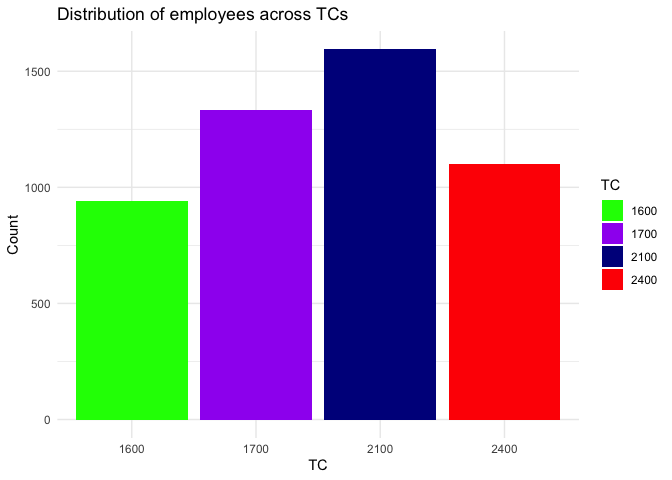
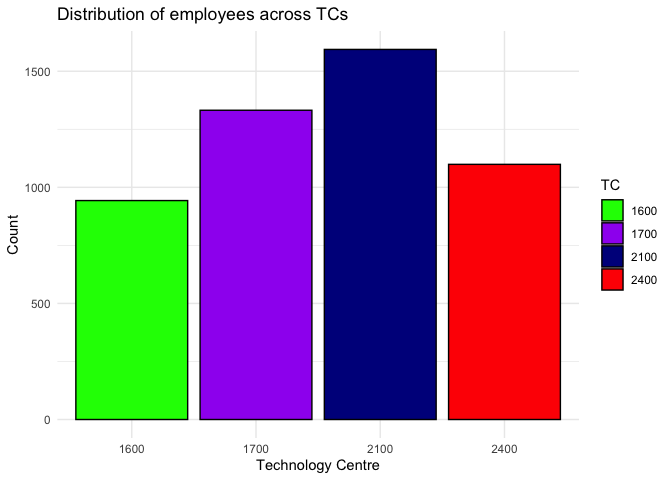
finalproj

diff --git a/Final-Project.md b/Final-Project.md
@@ -57,7 +57,7 @@ length_df %>%
   group_by(gender) %>%
   summarize(y = mean(app_length)) %>%
   ggplot(aes(x = gender, y = y, fill=gender)) +
-  geom_col(position = "dodge")+
+  geom_col(position = "dodge", color="black")+
   labs(x = "Gender", y = "Average days for application completion", fill = "Gender") +
   ggtitle("Average application length by gender") +
   theme_minimal()+
@@ -72,7 +72,7 @@ length_df %>%
   group_by(race) %>%
   summarize(y = mean(app_length)) %>%
   ggplot(aes(x = as.factor(race), y = y,fill=race)) +
-  geom_col(position = "dodge")+
+  geom_col(position = "dodge", color="black")+
   labs(x = "Technology Centre", y = "Average days for application completion", fill = "Race") +
   ggtitle("Average processing times by race") +
   theme_minimal()
@@ -86,7 +86,7 @@ length_df %>%
   group_by(tc) %>%
   summarize(y = mean(app_length)) %>%
   ggplot(aes(x = as.factor(tc), y = y, fill=as.factor(tc))) +
-  geom_col()+
+  geom_col(color="black")+
   labs(x = "Technology Centre", y = "Average days for application completion", fill = "TC") +
   ggtitle("Average processing times by TC") +
   scale_fill_manual(values = c("1600" = "green", "1700" = "purple", "2100"="darkblue", "2400"="red"))+
@@ -96,6 +96,19 @@ length_df %>%
 ![](Final-Project_files/figure-gfm/visualizing-3.png)<!-- -->
 
 ``` r
+gender_avg <- length_df %>%
+  group_by(gender) %>%
+  summarize(y = mean(app_length))
+
+race_avg <- length_df %>%
+  group_by(race) %>%
+  summarize(y = mean(app_length))
+
+tc_avg <- length_df %>%
+  group_by(tc) %>%
+  summarize(y = mean(app_length))
+
+  
 #distribution of app length based on final decision (issued or abandoned)  
 length_df %>%
   ggplot(aes(y = app_length, fill = disposal_type)) +
@@ -117,7 +130,7 @@ length_df %>%
   group_by(gender, tc) %>%
   summarize(n = n_distinct(examiner_id)) %>%
   ggplot(aes(x = as.factor(tc), y = n, fill=gender)) +
-  geom_col(position = "dodge")+
+  geom_col(position = "dodge", color="black")+
   labs(x = "TC", y = "Count", fill = "Gender") +
   ggtitle("Gender Distribution across TC") +
   theme_minimal()+
@@ -135,8 +148,8 @@ length_df %>%
   group_by(race, tc) %>%
   summarize(n = n_distinct(examiner_id)) %>%
   ggplot(aes(x = as.factor(tc), y = n, fill=race)) +
-  geom_col(position = "dodge")+
-  labs(x = "TC", y = "Count", fill = "Race") +
+  geom_col(position = "dodge", color="black")+
+  labs(x = "Technology Centre", y = "Count", fill = "Race") +
   ggtitle("Racial distributions across TCs") +
   theme_minimal()
 ```
@@ -152,8 +165,8 @@ length_df %>%
   group_by(tc) %>%
   summarize(n = n_distinct(examiner_id)) %>%
   ggplot(aes(x = as.factor(tc), y = n, fill=as.factor(tc))) +
-  geom_col(position = "dodge")+
-  labs(x = "TC", y = "Count", fill = "TC") +
+  geom_col(position = "dodge", color="black")+
+  labs(x = "Technology Centre", y = "Count", fill = "TC") +
   ggtitle("Distribution of employees across TCs") +
   theme_minimal()+
   scale_fill_manual(values = c("1600" = "green", "1700" = "purple", "2100"="darkblue", "2400"="red"))
@@ -204,7 +217,7 @@ length_df %>%
   summarize(count = n()) %>%
   ggplot(aes(x = as.factor(tc), y = count, fill=disposal_type)) +
   geom_col(position = "fill")+
-  labs(x = "TC", y = "Decision proportion", fill = "Disposal Type") +
+  labs(x = "Technology Centre", y = "Decision proportion", fill = "Disposal Type") +
   ggtitle("Distribution of decision type by TC") +
   theme_minimal()+
   scale_fill_manual(values = c("ISS" = "darkgreen", "ABN" = "darkred"))
@@ -221,7 +234,7 @@ length_df %>%
   group_by(gender, disposal_type) %>%
   summarize(y = mean(app_length)) %>%
   ggplot(aes(x = gender, y = y, fill=disposal_type)) +
-  geom_col(position = "dodge")+
+  geom_col(position = "dodge", color="black")+
   labs(x = "Gender", y = "Decision time", fill = "Disposal Type") +
   ggtitle("Average processing time for each decision type by gender ") +
   theme_minimal()+
@@ -239,7 +252,7 @@ length_df %>%
   group_by(race, disposal_type) %>%
   summarize(y = mean(app_length)) %>%
   ggplot(aes(x = race, y = y, fill=disposal_type)) +
-  geom_col(position = "dodge")+
+  geom_col(position = "dodge", color="black")+
   labs(x = "Race", y = "Decision time", fill = "Disposal Type") +
   ggtitle("Average processing time for each decision type by race") +
   theme_minimal()+
@@ -257,8 +270,8 @@ length_df %>%
   group_by(tc, disposal_type) %>%
   summarize(y = mean(app_length)) %>%
   ggplot(aes(x = as.factor(tc), y = y, fill=disposal_type)) +
-  geom_col(position = "dodge")+
-  labs(x = "TC", y = "Decision time", fill = "Disposal Type") +
+  geom_col(position = "dodge", color="black")+
+  labs(x = "Technology Centre", y = "Decision time", fill = "Disposal Type") +
   ggtitle("Average processing time for each decision type by TC") +
   theme_minimal()+
   scale_fill_manual(values = c("ISS" = "darkgreen", "ABN" = "darkred"))
@@ -281,13 +294,10 @@ average_length <- length_df %>%
     tenure = first(tenure_days)
   )
 
-
 #regression with preprocessed set
 model_avg <- lm(data = average_length, avg_length ~ as.factor(tc) + as.factor(gender) + as.factor(race) + as.factor(disposal_type))
 
 model_avg_wt <- lm(data = average_length, avg_length ~ as.factor(tc) + as.factor(gender) + as.factor(race) + as.factor(disposal_type) + tenure)
-
-library(stargazer)
 
 summary(model_avg)
 ```
@@ -355,139 +365,139 @@ summary(model_avg_wt)
     ## F-statistic: 292.7 on 10 and 8920 DF,  p-value: < 2.2e-16
 
 ``` r
-tidy(model_avg)
+yoe_df <- length_df %>%
+  drop_na(earliest_date) %>%
+  mutate(yoe = year(filing_date)-year(earliest_date))
+
+yoe_df %>%
+  group_by(yoe) %>%
+  summarize(y = mean(app_length)) %>%
+  ggplot(aes(x = as.factor(yoe), y = y)) +
+  geom_col(fill = "lightgreen", color="black") +
+  labs(x = "Years of Experience", y = "Average decision time") +
+  ggtitle("Average processing time by years of experience") +
+  theme_minimal()
 ```
 
-    ## # A tibble: 10 × 5
-    ##    term                        estimate std.error statistic   p.value
-    ##    <chr>                          <dbl>     <dbl>     <dbl>     <dbl>
-    ##  1 (Intercept)                    980.      10.5      93.3  0        
-    ##  2 as.factor(tc)1700               26.2      9.20      2.85 4.37e-  3
-    ##  3 as.factor(tc)2100              199.       9.33     21.4  7.10e- 99
-    ##  4 as.factor(tc)2400              198.      10.3      19.2  7.37e- 81
-    ##  5 as.factor(gender)male          -20.6      7.05     -2.92 3.49e-  3
-    ##  6 as.factor(race)black           -28.6     18.2      -1.57 1.16e-  1
-    ##  7 as.factor(race)Hispanic        -27.3     16.7      -1.64 1.02e-  1
-    ##  8 as.factor(race)other           297.     149.        1.99 4.68e-  2
-    ##  9 as.factor(race)white           -11.1      7.59     -1.46 1.44e-  1
-    ## 10 as.factor(disposal_type)ISS    187.       6.29     29.8  1.37e-185
+![](Final-Project_files/figure-gfm/years-of-experience-1.png)<!-- -->
 
 ``` r
-tidy(model_avg_wt)
+yoe_reg <- yoe_df %>%
+  group_by(examiner_id, disposal_type,yoe) %>%
+  summarize(
+    gender= first(gender),
+    race = first(race),
+    tc = first(tc),
+    avg_length = mean(app_length),
+    tenure = first(tenure_days)
+  )
 ```
 
-    ## # A tibble: 11 × 5
-    ##    term                        estimate std.error statistic   p.value
-    ##    <chr>                          <dbl>     <dbl>     <dbl>     <dbl>
-    ##  1 (Intercept)                 658.      14.2        46.2   0        
-    ##  2 as.factor(tc)1700            58.9      8.82        6.68  2.56e- 11
-    ##  3 as.factor(tc)2100           243.       8.98       27.0   1.63e-154
-    ##  4 as.factor(tc)2400           284.      10.1        28.0   9.72e-166
-    ##  5 as.factor(gender)male       -18.2      6.70       -2.71  6.68e-  3
-    ##  6 as.factor(race)black        -32.7     17.3        -1.89  5.93e-  2
-    ##  7 as.factor(race)Hispanic      -1.93    15.8        -0.122 9.03e-  1
-    ##  8 as.factor(race)other        245.     142.          1.73  8.39e-  2
-    ##  9 as.factor(race)white         -9.30     7.22       -1.29  1.98e-  1
-    ## 10 as.factor(disposal_type)ISS 184.       5.99       30.8   3.29e-198
-    ## 11 tenure                        0.0603   0.00190    31.7   5.53e-209
+    ## `summarise()` has grouped output by 'examiner_id', 'disposal_type'. You can
+    ## override using the `.groups` argument.
 
 ``` r
-stargazer(model_avg, type="text")
+model_yoe_af <- lm(data = yoe_reg, avg_length ~ as.factor(tc) + as.factor(gender) + as.factor(race) + as.factor(disposal_type) + as.factor(yoe))
+
+model_yoe <- lm(data = yoe_reg, avg_length ~ as.factor(tc) + as.factor(gender) + as.factor(race) + as.factor(disposal_type) + yoe)
+
+summary(model_yoe_af)
 ```
 
     ## 
-    ## =======================================================
-    ##                                 Dependent variable:    
-    ##                             ---------------------------
-    ##                                     avg_length         
-    ## -------------------------------------------------------
-    ## as.factor(tc)1700                    26.227***         
-    ##                                       (9.199)          
-    ##                                                        
-    ## as.factor(tc)2100                   199.471***         
-    ##                                       (9.334)          
-    ##                                                        
-    ## as.factor(tc)2400                   197.734***         
-    ##                                      (10.278)          
-    ##                                                        
-    ## as.factor(gender)male               -20.584***         
-    ##                                       (7.045)          
-    ##                                                        
-    ## as.factor(race)black                  -28.593          
-    ##                                      (18.191)          
-    ##                                                        
-    ## as.factor(race)Hispanic               -27.258          
-    ##                                      (16.661)          
-    ##                                                        
-    ## as.factor(race)other                 296.641**         
-    ##                                      (149.171)         
-    ##                                                        
-    ## as.factor(race)white                  -11.095          
-    ##                                       (7.590)          
-    ##                                                        
-    ## as.factor(disposal_type)ISS         187.205***         
-    ##                                       (6.292)          
-    ##                                                        
-    ## Constant                            980.221***         
-    ##                                      (10.510)          
-    ##                                                        
-    ## -------------------------------------------------------
-    ## Observations                           8,973           
-    ## R2                                     0.162           
-    ## Adjusted R2                            0.161           
-    ## Residual Std. Error             297.980 (df = 8963)    
-    ## F Statistic                  192.597*** (df = 9; 8963) 
-    ## =======================================================
-    ## Note:                       *p<0.1; **p<0.05; ***p<0.01
+    ## Call:
+    ## lm(formula = avg_length ~ as.factor(tc) + as.factor(gender) + 
+    ##     as.factor(race) + as.factor(disposal_type) + as.factor(yoe), 
+    ##     data = yoe_reg)
+    ## 
+    ## Residuals:
+    ##     Min      1Q  Median      3Q     Max 
+    ## -1584.4  -307.3   -21.0   247.7  4380.0 
+    ## 
+    ## Coefficients:
+    ##                              Estimate Std. Error t value Pr(>|t|)    
+    ## (Intercept)                  1658.344      8.444 196.385  < 2e-16 ***
+    ## as.factor(tc)1700            -135.796      5.129 -26.477  < 2e-16 ***
+    ## as.factor(tc)2100              19.007      5.513   3.448 0.000566 ***
+    ## as.factor(tc)2400             127.806      5.747  22.239  < 2e-16 ***
+    ## as.factor(gender)male         -26.522      4.062  -6.530 6.63e-11 ***
+    ## as.factor(race)black          -17.554     10.309  -1.703 0.088623 .  
+    ## as.factor(race)Hispanic       -59.115     10.224  -5.782 7.41e-09 ***
+    ## as.factor(race)other          241.599     69.546   3.474 0.000513 ***
+    ## as.factor(race)white          -23.250      4.397  -5.287 1.25e-07 ***
+    ## as.factor(disposal_type)ISS   216.643      3.673  58.986  < 2e-16 ***
+    ## as.factor(yoe)1              -168.129      8.776 -19.158  < 2e-16 ***
+    ## as.factor(yoe)2              -228.488      8.765 -26.068  < 2e-16 ***
+    ## as.factor(yoe)3              -276.826      8.855 -31.263  < 2e-16 ***
+    ## as.factor(yoe)4              -333.945      8.967 -37.240  < 2e-16 ***
+    ## as.factor(yoe)5              -408.016      9.104 -44.819  < 2e-16 ***
+    ## as.factor(yoe)6              -476.806      9.251 -51.544  < 2e-16 ***
+    ## as.factor(yoe)7              -545.030      9.395 -58.013  < 2e-16 ***
+    ## as.factor(yoe)8              -635.691      9.541 -66.626  < 2e-16 ***
+    ## as.factor(yoe)9              -727.608      9.739 -74.710  < 2e-16 ***
+    ## as.factor(yoe)10             -825.008     10.026 -82.289  < 2e-16 ***
+    ## as.factor(yoe)11             -915.887     10.385 -88.190  < 2e-16 ***
+    ## as.factor(yoe)12             -984.030     10.971 -89.695  < 2e-16 ***
+    ## as.factor(yoe)13            -1021.815     11.691 -87.400  < 2e-16 ***
+    ## as.factor(yoe)14            -1107.533     12.633 -87.673  < 2e-16 ***
+    ## as.factor(yoe)15            -1269.512     14.369 -88.349  < 2e-16 ***
+    ## as.factor(yoe)16            -1464.788     19.577 -74.820  < 2e-16 ***
+    ## as.factor(yoe)17            -1698.160    183.778  -9.240  < 2e-16 ***
+    ## ---
+    ## Signif. codes:  0 '***' 0.001 '**' 0.01 '*' 0.05 '.' 0.1 ' ' 1
+    ## 
+    ## Residual standard error: 519.4 on 80212 degrees of freedom
+    ## Multiple R-squared:  0.3292, Adjusted R-squared:  0.329 
+    ## F-statistic:  1514 on 26 and 80212 DF,  p-value: < 2.2e-16
 
 ``` r
-stargazer(model_avg_wt, type="text")
+summary(model_yoe)
 ```
 
     ## 
-    ## =======================================================
-    ##                                 Dependent variable:    
-    ##                             ---------------------------
-    ##                                     avg_length         
-    ## -------------------------------------------------------
-    ## as.factor(tc)1700                    58.878***         
-    ##                                       (8.816)          
-    ##                                                        
-    ## as.factor(tc)2100                   242.681***         
-    ##                                       (8.985)          
-    ##                                                        
-    ## as.factor(tc)2400                   284.441***         
-    ##                                      (10.148)          
-    ##                                                        
-    ## as.factor(gender)male               -18.186***         
-    ##                                       (6.703)          
-    ##                                                        
-    ## as.factor(race)black                 -32.660*          
-    ##                                      (17.317)          
-    ##                                                        
-    ## as.factor(race)Hispanic               -1.928           
-    ##                                      (15.836)          
-    ##                                                        
-    ## as.factor(race)other                 244.716*          
-    ##                                      (141.567)         
-    ##                                                        
-    ## as.factor(race)white                  -9.299           
-    ##                                       (7.217)          
-    ##                                                        
-    ## as.factor(disposal_type)ISS         184.434***         
-    ##                                       (5.986)          
-    ##                                                        
-    ## tenure                               0.060***          
-    ##                                       (0.002)          
-    ##                                                        
-    ## Constant                            657.541***         
-    ##                                      (14.239)          
-    ##                                                        
-    ## -------------------------------------------------------
-    ## Observations                           8,931           
-    ## R2                                     0.247           
-    ## Adjusted R2                            0.246           
-    ## Residual Std. Error             282.772 (df = 8920)    
-    ## F Statistic                 292.671*** (df = 10; 8920) 
-    ## =======================================================
-    ## Note:                       *p<0.1; **p<0.05; ***p<0.01
+    ## Call:
+    ## lm(formula = avg_length ~ as.factor(tc) + as.factor(gender) + 
+    ##     as.factor(race) + as.factor(disposal_type) + yoe, data = yoe_reg)
+    ## 
+    ## Residuals:
+    ##     Min      1Q  Median      3Q     Max 
+    ## -1568.9  -308.1   -22.2   252.1  4415.4 
+    ## 
+    ## Coefficients:
+    ##                              Estimate Std. Error  t value Pr(>|t|)    
+    ## (Intercept)                 1624.4228     6.5866  246.625  < 2e-16 ***
+    ## as.factor(tc)1700           -135.5656     5.1386  -26.382  < 2e-16 ***
+    ## as.factor(tc)2100             19.3059     5.5240    3.495 0.000475 ***
+    ## as.factor(tc)2400            129.8567     5.7556   22.562  < 2e-16 ***
+    ## as.factor(gender)male        -26.2794     4.0702   -6.457 1.08e-10 ***
+    ## as.factor(race)black         -17.4412    10.3311   -1.688 0.091372 .  
+    ## as.factor(race)Hispanic      -58.9434    10.2456   -5.753 8.80e-09 ***
+    ## as.factor(race)other         240.6325    69.6927    3.453 0.000555 ***
+    ## as.factor(race)white         -23.4009     4.4065   -5.310 1.10e-07 ***
+    ## as.factor(disposal_type)ISS  215.2188     3.6774   58.525  < 2e-16 ***
+    ## yoe                          -78.3010     0.4312 -181.605  < 2e-16 ***
+    ## ---
+    ## Signif. codes:  0 '***' 0.001 '**' 0.01 '*' 0.05 '.' 0.1 ' ' 1
+    ## 
+    ## Residual standard error: 520.6 on 80228 degrees of freedom
+    ## Multiple R-squared:  0.3262, Adjusted R-squared:  0.3261 
+    ## F-statistic:  3884 on 10 and 80228 DF,  p-value: < 2.2e-16
+
+``` r
+tidy(model_yoe_af)
+```
+
+    ## # A tibble: 27 × 5
+    ##    term                        estimate std.error statistic   p.value
+    ##    <chr>                          <dbl>     <dbl>     <dbl>     <dbl>
+    ##  1 (Intercept)                   1658.       8.44    196.   0        
+    ##  2 as.factor(tc)1700             -136.       5.13    -26.5  8.30e-154
+    ##  3 as.factor(tc)2100               19.0      5.51      3.45 5.66e-  4
+    ##  4 as.factor(tc)2400              128.       5.75     22.2  3.07e-109
+    ##  5 as.factor(gender)male          -26.5      4.06     -6.53 6.63e- 11
+    ##  6 as.factor(race)black           -17.6     10.3      -1.70 8.86e-  2
+    ##  7 as.factor(race)Hispanic        -59.1     10.2      -5.78 7.41e-  9
+    ##  8 as.factor(race)other           242.      69.5       3.47 5.13e-  4
+    ##  9 as.factor(race)white           -23.2      4.40     -5.29 1.25e-  7
+    ## 10 as.factor(disposal_type)ISS    217.       3.67     59.0  0        
+    ## # ℹ 17 more rows
